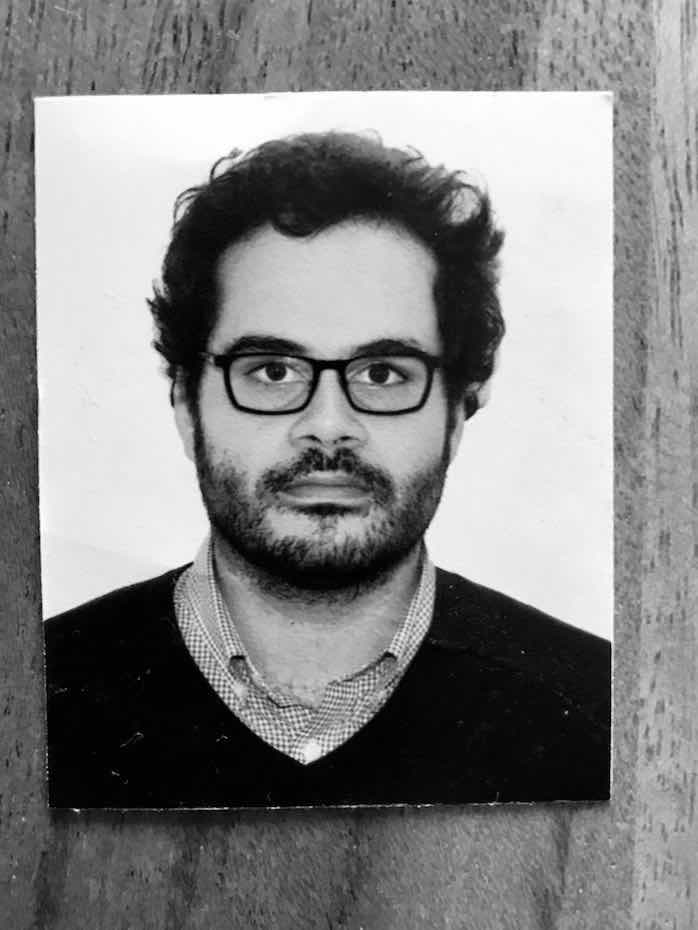
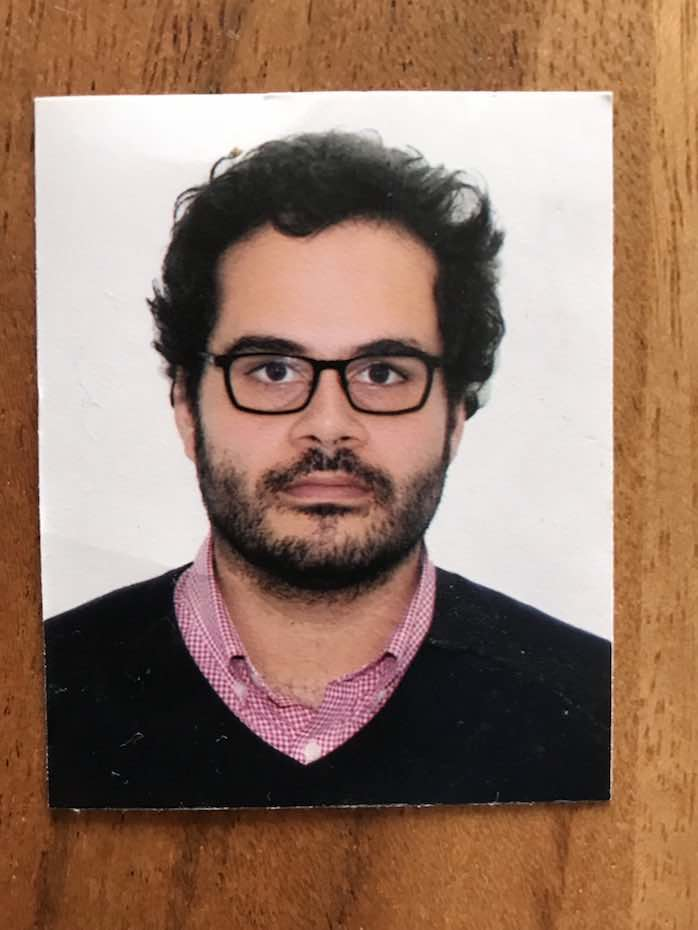
color!

diff --git a/js/face.js b/js/face.js
@@ -6,7 +6,7 @@ new BreathingHalftone( img, {
   dotSizeThreshold: 0.01,
   initVelocity: 0.7,
   oscPeriod: 2,
-  channels: [ 'lum' ],
+  channels: [ 'red','green','blue','lum' ],
   friction: 0.25,
   hoverDiameter: 0.4,
   hoverForce: 0.004,
